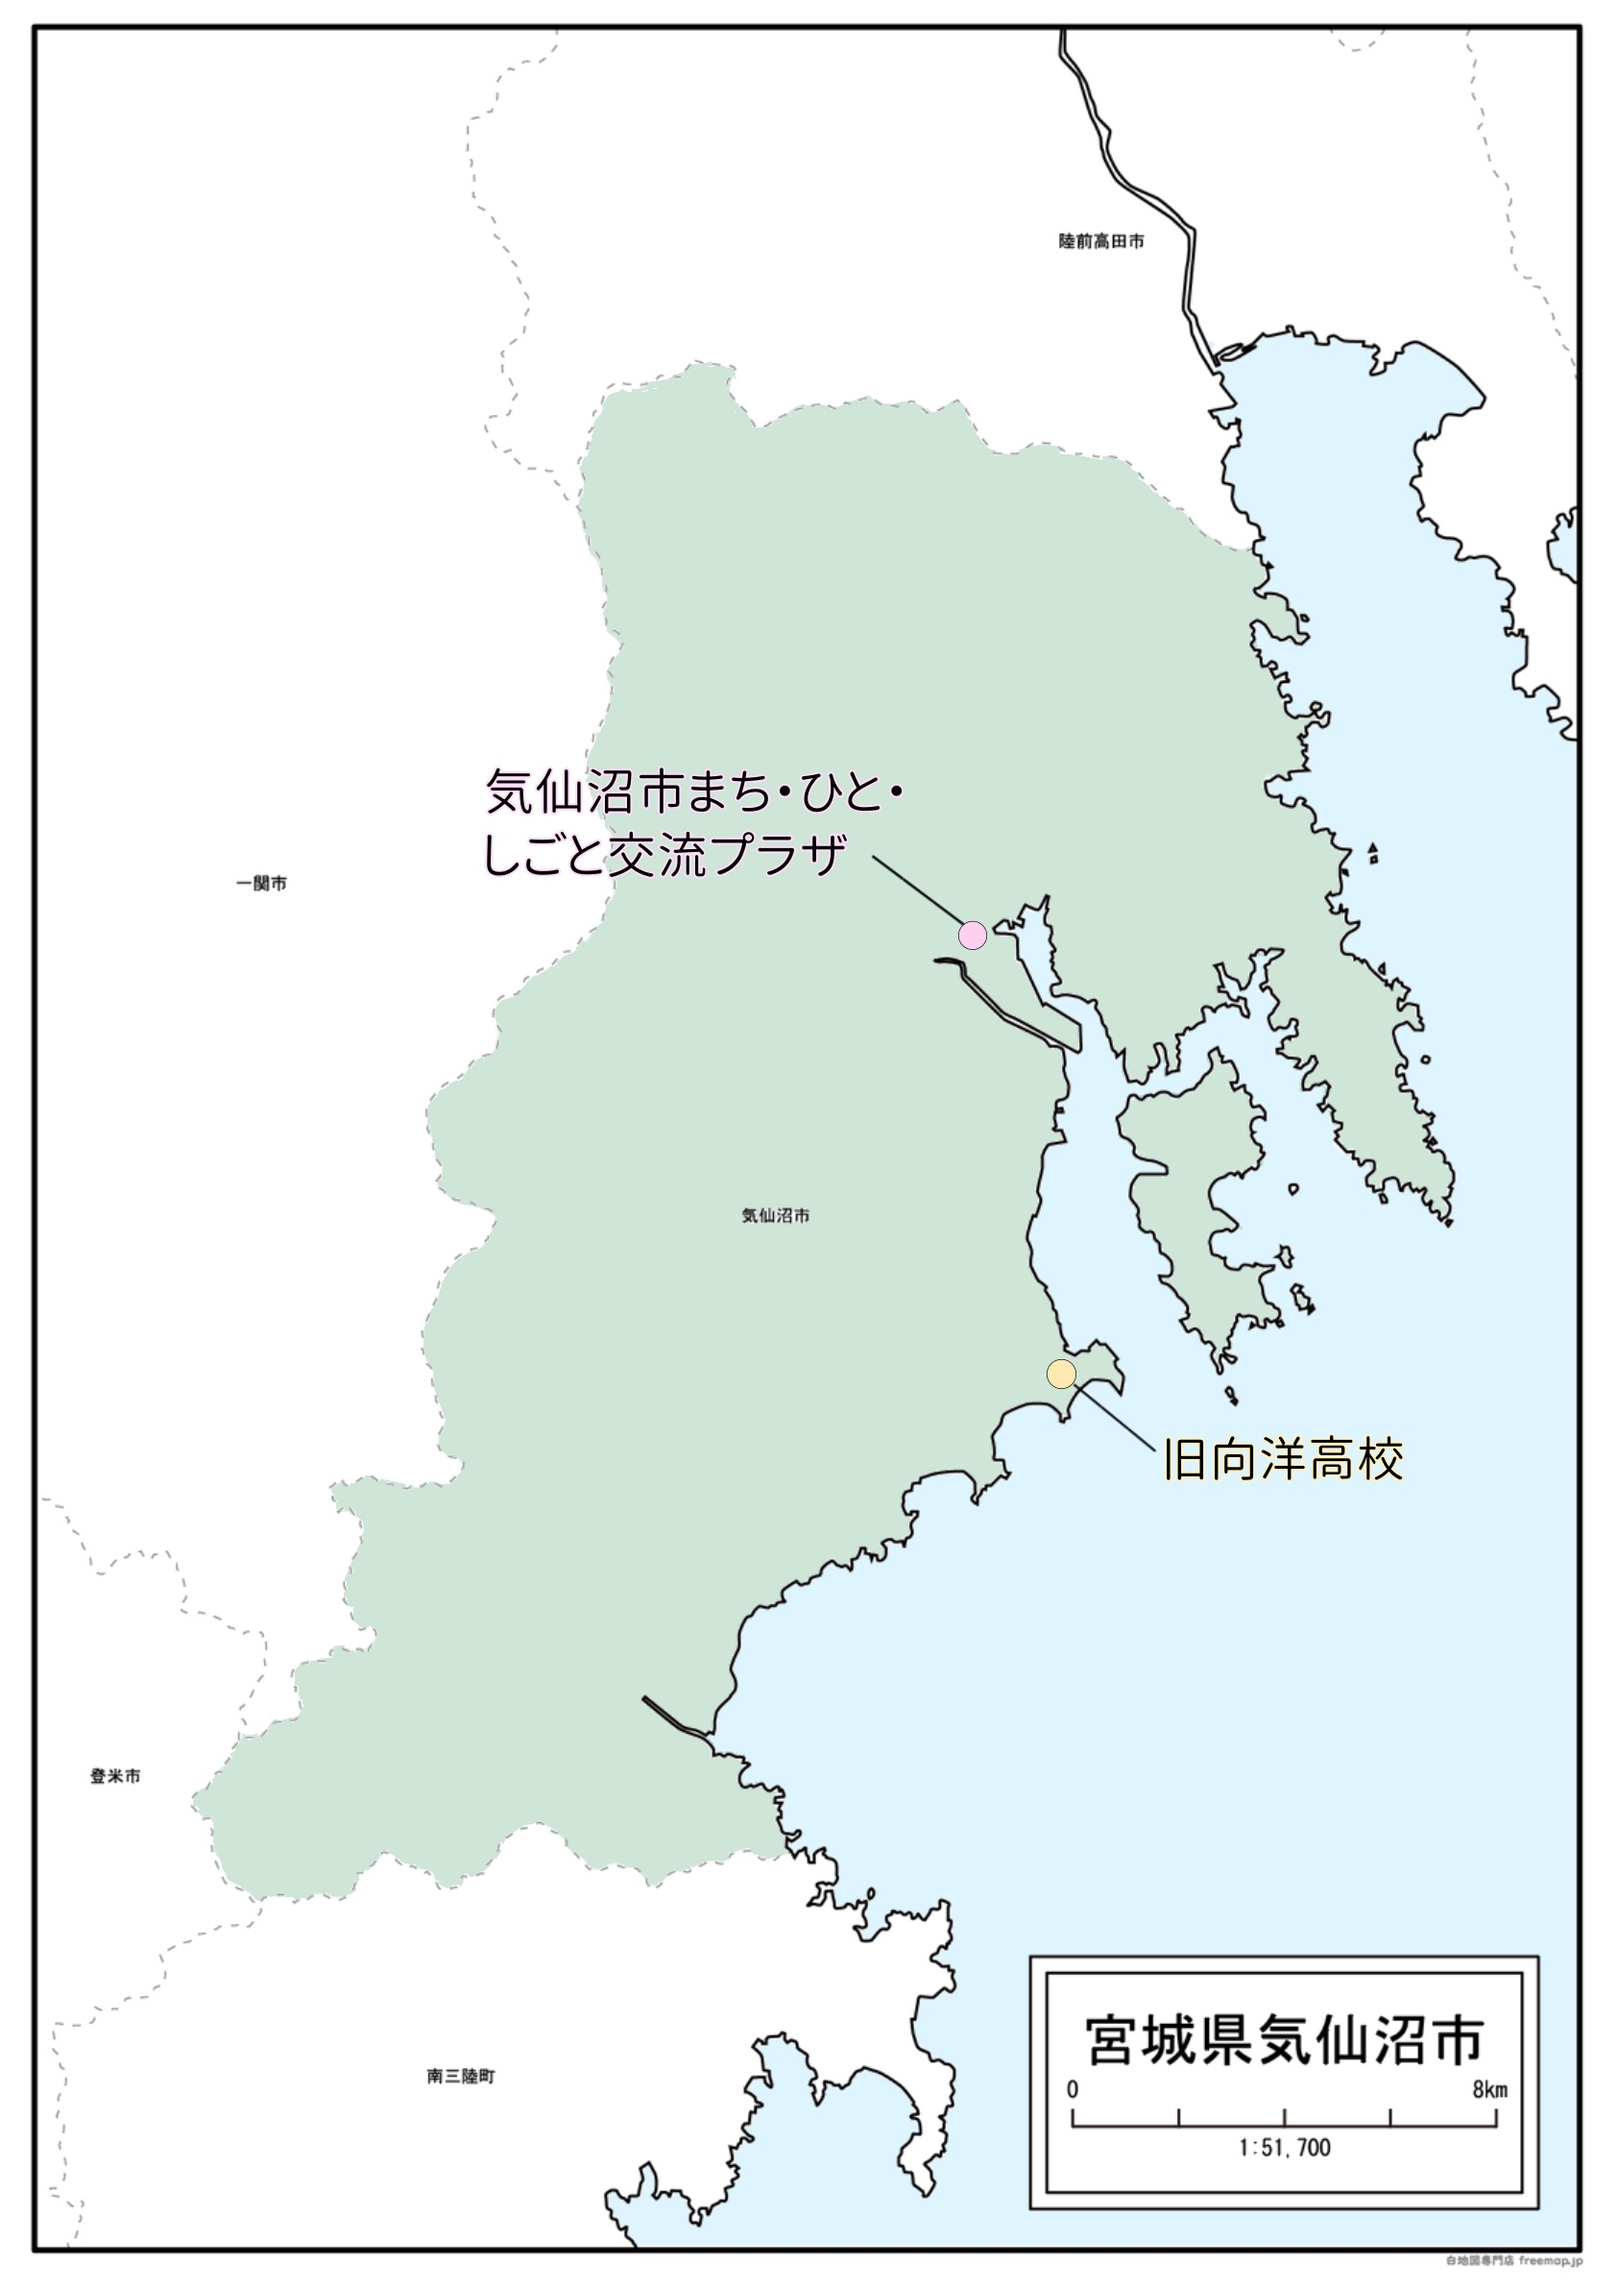
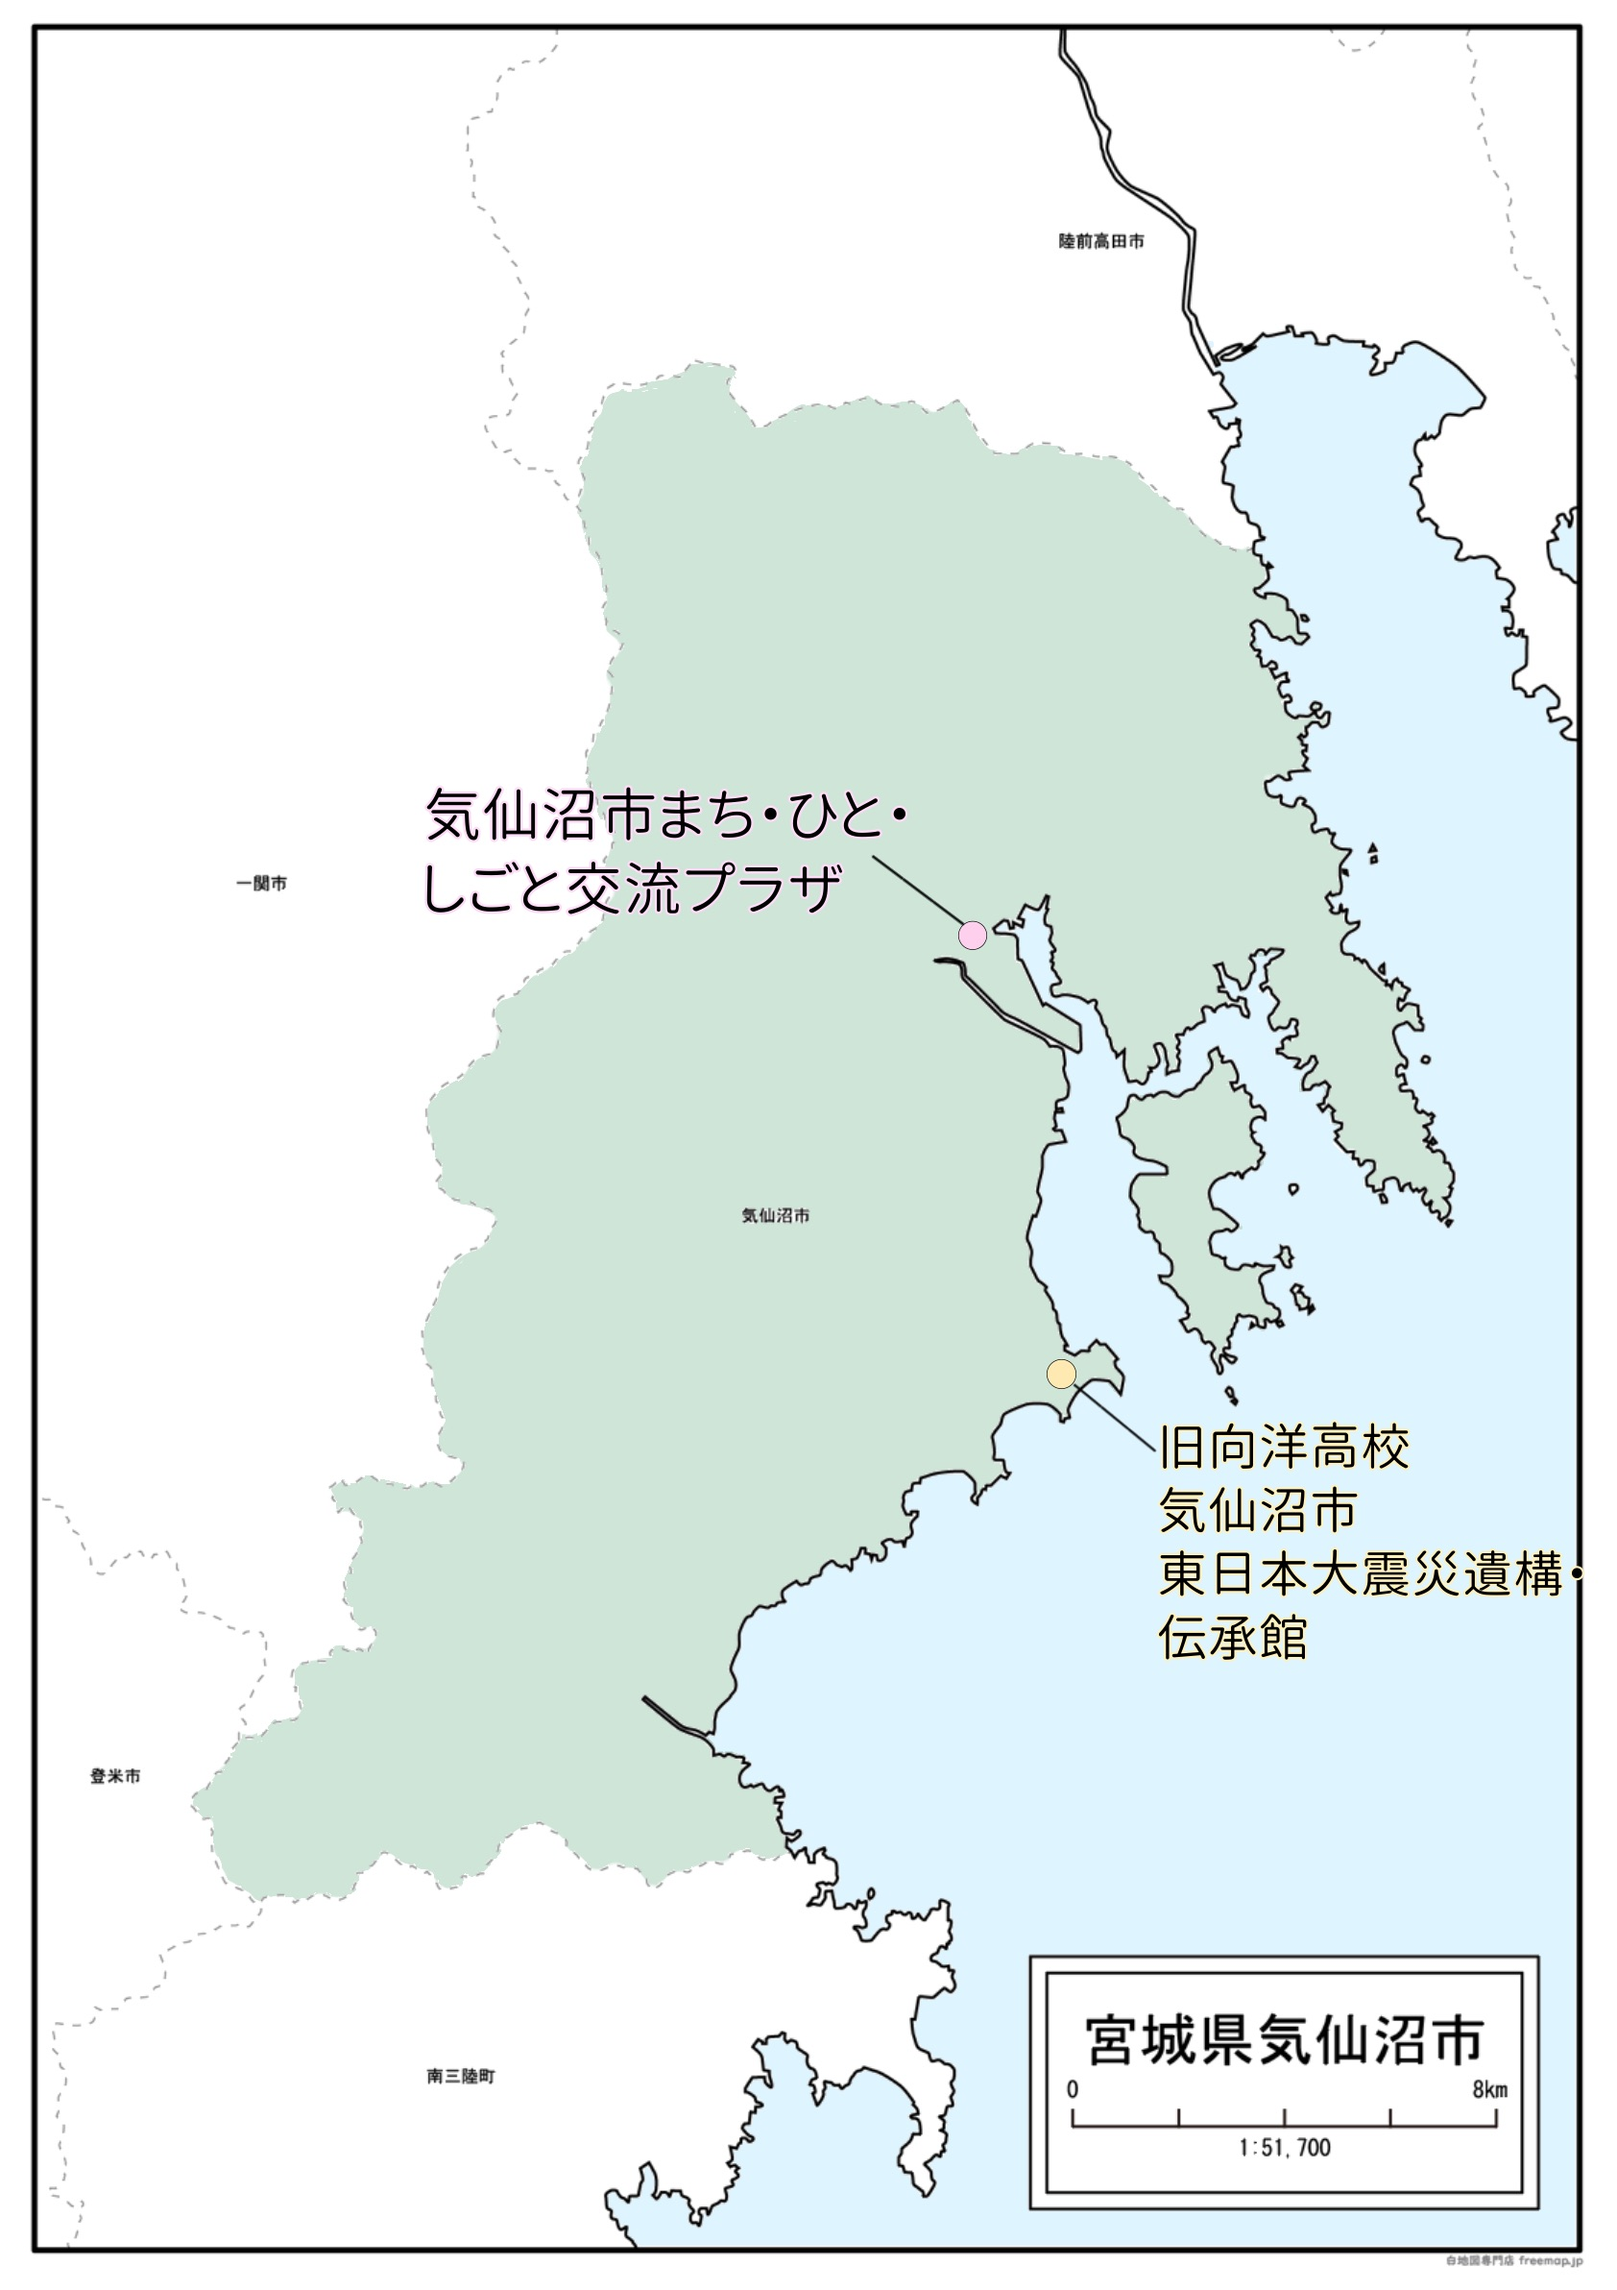
Add files via upload

Changed region(s): [[0.7102, 0.6208, 0.9881, 0.745], [0.247, 0.3104, 0.5558, 0.4035]]

diff --git a/map/mapkesennuma.html b/map/mapkesennuma.html
@@ -5,15 +5,14 @@
      <link rel="stylesheet" href="../style.css">
     <meta name="viewport" content="width=device-width">
     <title>3.11∞実行委員会</title>
-  </head>
-
-  <body>
+ </head>
+ <body>
     <img src="kesennumap.jpg" usemap="#kesennuma" alt="" />
-    <map name="kesennuma">
-      <!-- 気仙沼市ひと・まち・しごと交流プラザ --><area shape="poly" coords="927,803,927,803,944,797,504,794,498,909,1042,995,1042,995" href="#" alt="" />
-      <!-- 旧向洋高校 --><area shape="poly" coords="1083,1414,1082,1411,1459,1501,1473,1554,1194,1548,1094,1438,1094,1438" href="#" alt="" />
-    </map>
-  </body>
+<map name="kesennuma">
+    <!-- 気仙沼市ひと・まち・しごと交流プラザ --><area shape="poly" coords="927,803,927,803,944,797,504,794,498,909,1042,995,1042,995" href="pier7map.html" alt="" />
+    <!-- 旧向洋高校 --><area shape="poly" coords="1083,1414,1082,1411,1459,1501,1473,1554,1194,1548,1094,1438,1094,1438" href="#" alt="" />
+</map>
+ </body>
 </html>
 
 

diff --git a/map/mapishinomaki.html b/map/mapishinomaki.html
@@ -5,13 +5,14 @@
      <link rel="stylesheet" href="../style.css">
     <meta name="viewport" content="width=device-width">
     <title>3.11∞実行委員会</title>
-   </head>
-
-  <body>
-    <img src="ishinomakimap.jpg" usemap="#ishinomaki" alt="" />
-    <map name="ishinomaki">
-      <!-- 大川 --><area shape="poly" coords="389,213,380,219,518,213,520,241,377,243,332,261,330,266,339,273,339,273" href="ookawamap.html" alt="" />
-      <!-- 日和 --><area shape="poly" coords="71,521,74,525,221,529,182,411,171,418" href="hiyorimap.html" alt="" />
-    </map>
-  </body>
+ </head>
+ <body>
+<img src="ishinomakimap.jpg" usemap="#ishinomaki" alt="" />
+<map name="ishinomaki">
+    <!-- 大川 --><area shape="poly" coords="389,213,380,219,518,213,520,241,377,243,332,261,330,266,339,273,339,273" href="ookawamap.html" alt="" />
+    <!-- 日和 --><area shape="poly" coords="71,521,74,525,221,529,182,411,171,418" href="hiyorimap.html" alt="" />
+</map>
+ </body>
 </html>
+
+

diff --git a/map/pier7map.html b/map/pier7map.html
@@ -1,0 +1,31 @@
+<!DOCTYPE html>
+<html>
+  <head>
+    <meta charset="utf-8">
+    <link rel="stylesheet" href="../style.css">
+    <meta name="viewport" content="width=device-width">
+    <title>3.11∞実行委員会</title>
+    <script type="text/javascript">
+    function showimg1(){
+        document.getElementById("area1").src = "pier71.jpg";
+    }
+    function showimg2(){
+        document.getElementById("area1").src = "pier72.jpg";
+    }
+     </script>
+  </head>
+
+  <!-- body bgcolor="#ffdbec" -->
+  <body>
+    <p>
+      <span class=FontStyle1 onclick="showimg1()">[気仙沼港]<br></span>
+      <span class=FontStyle1 onclick="showimg2()">[Pier7展示品]<br></span>
+    
+    </p>
+    <p>
+      <img src="pier71.jpg" id="area1" alt="説明図" />
+    </p>
+  </body>
+</html>
+
+
